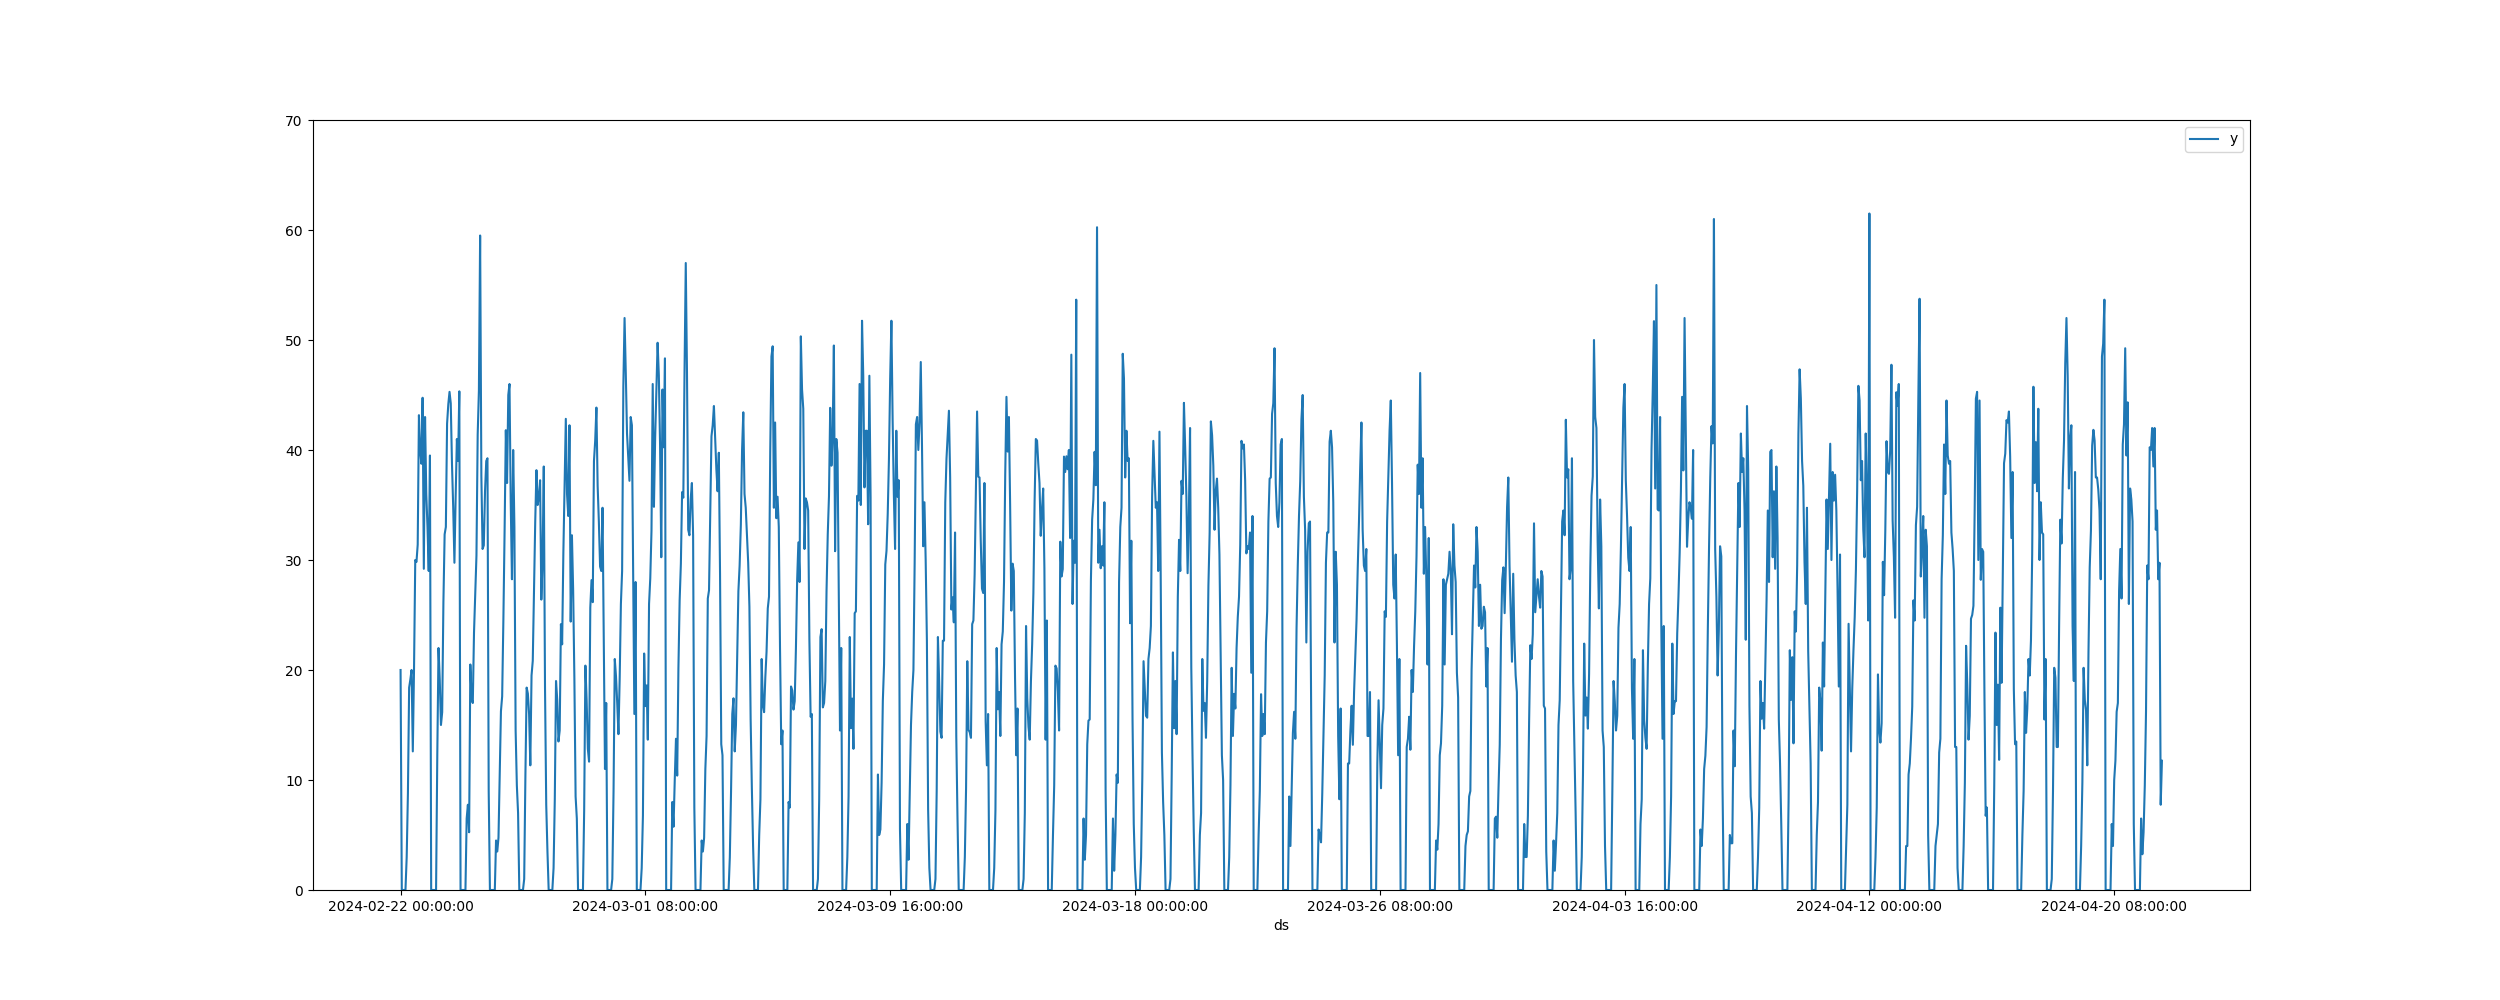
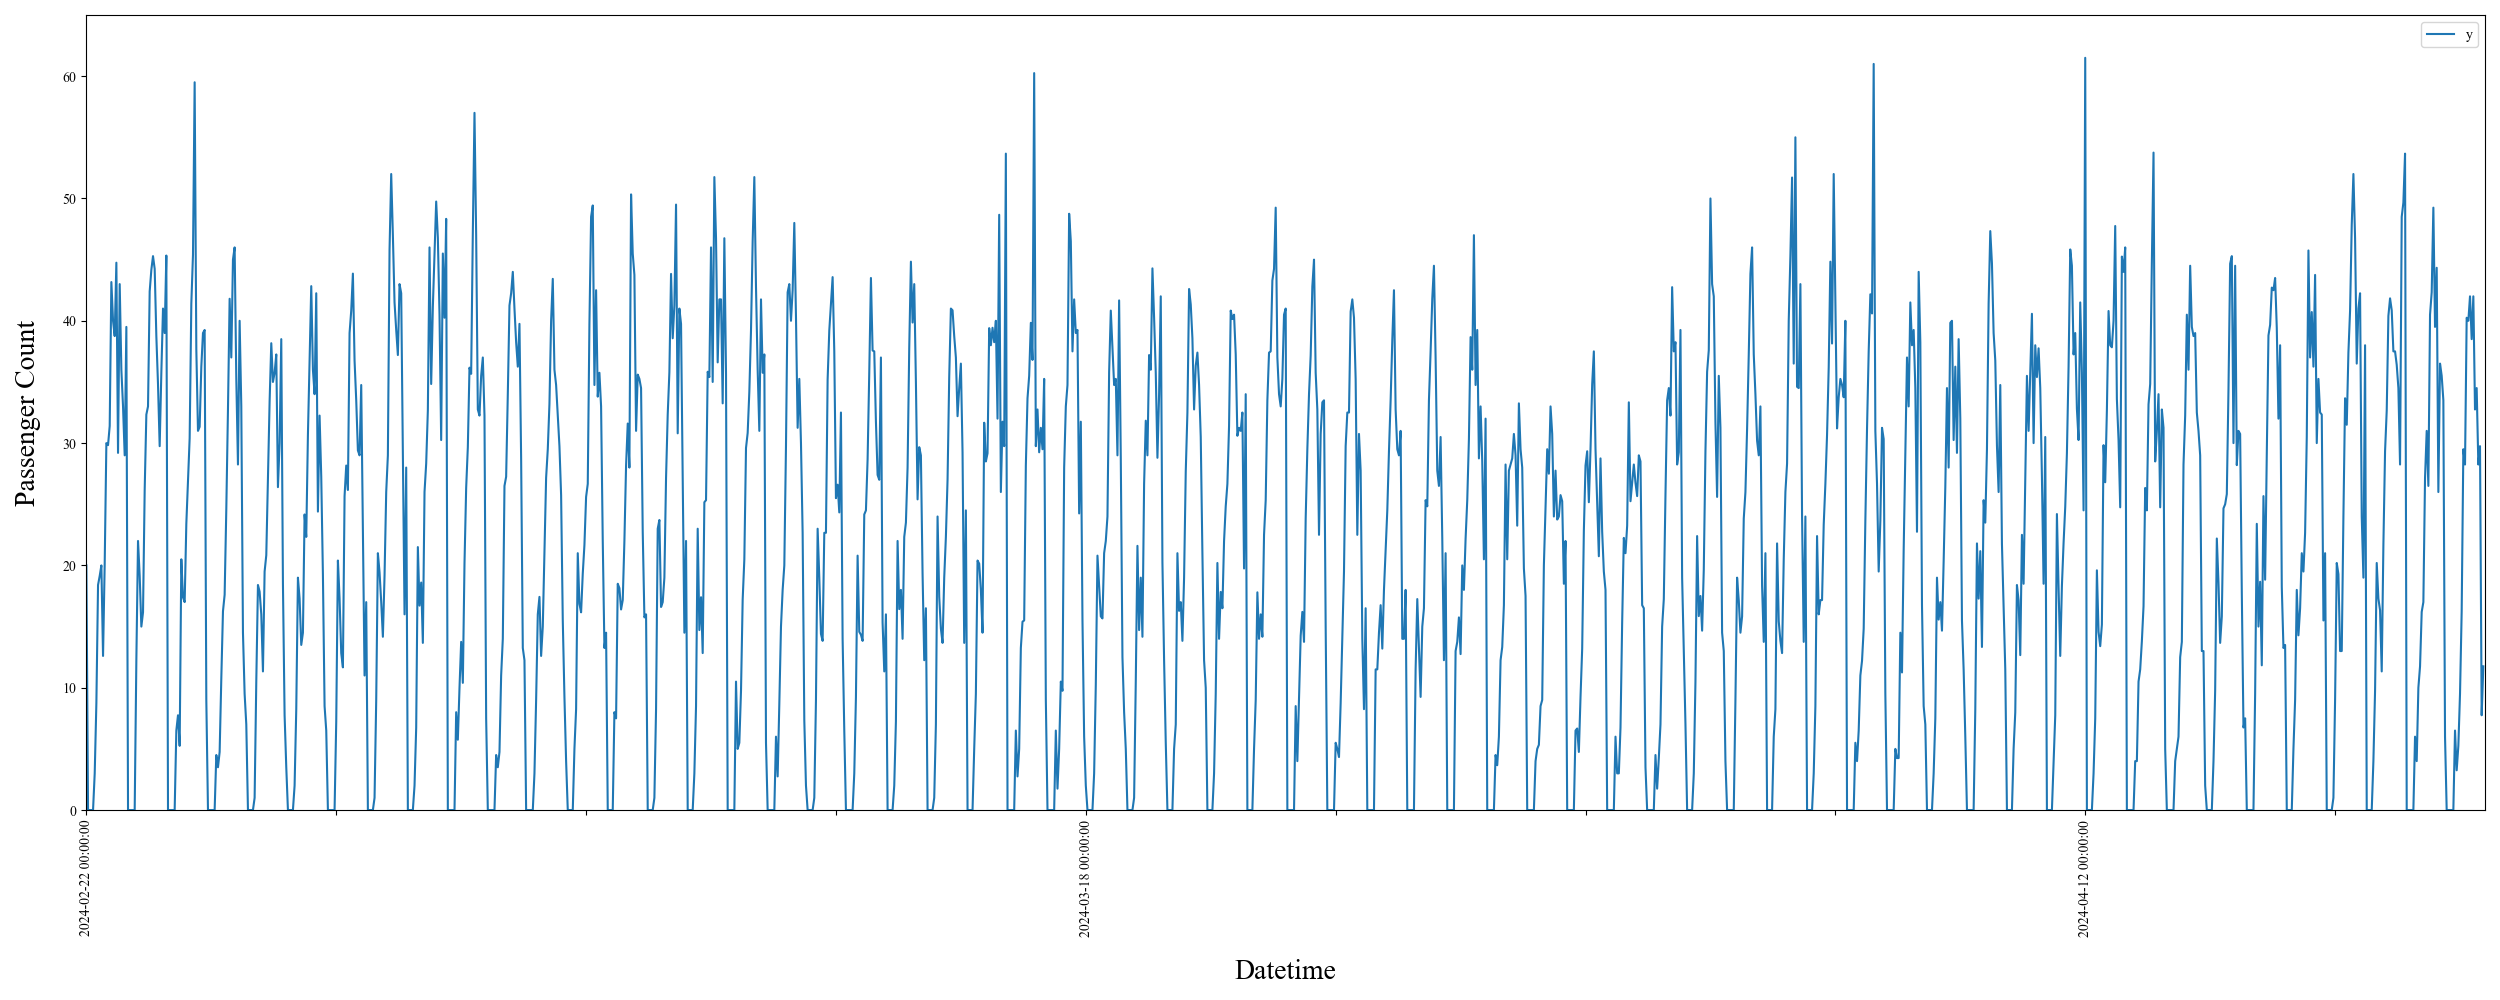
fixing layouts not done

Changed region(s): [[0.0, 0.186, 0.9984, 0.93], [0.8736, 0.124, 0.9048, 0.155], [0.4992, 0.961, 0.5304, 0.992]]

diff --git a/src/visualize_data.py b/src/visualize_data.py
@@ -3,8 +3,29 @@ import pandas as pd
 import matplotlib.pyplot as plt
 from statsmodels.tsa.seasonal import seasonal_decompose
 
-def plot_timeseries(df, figsize:tuple=(40,10), ylim:tuple=(0,75), save_path=None, save_file=None, **kwargs):
+def plot_timeseries(df, figsize:tuple=(40,10), ylim:tuple=(0,75), label_share=1, save_path=None, save_file=None, **kwargs):
+    # set font to times
+    plt.rcParams["font.family"] = "Times New Roman"
+
+    # create plot
     ts_plot = df.plot(x="ds", y="y", figsize=figsize, ylim=ylim, **kwargs)
+
+    # limit the x-axis
+    ts_plot.set_xlim(0, len(df))
+
+    # add x and y labels
+    ts_plot.set_xlabel("Datetime", fontsize=20, labelpad=16)
+    ts_plot.set_ylabel("Passenger Count", fontsize=20, labelpad=16)
+
+    # rotate x-axis labels 90 degrees
+    ts_plot.set_xticklabels(ts_plot.get_xticklabels(), rotation=90)
+
+    # ensure all x-axis labels are shown
+    ts_plot.xaxis.set_major_locator(plt.MaxNLocator(label_share))
+
+    # tighten the layout
+    plt.tight_layout()
+
 
     if save_path and save_file:
         ts_plot.get_figure().savefig(save_path / save_file)
@@ -35,21 +56,21 @@ def main():
     df = pd.read_csv(data_path / "processed_1A_norreport.csv")
 
     # plot the timeseries for Cumulative
-    plot_timeseries(df, figsize=(40,10), ylim=(0,75), save_path=plot_dir, save_file="norreport_1A_ts.png")
+    plot_timeseries(df, figsize=(40,10), ylim=(0,75), label_share = 10, save_path=plot_dir, save_file="norreport_1A_ts.png")
 
     # create another plot that is zoomed into the last two month (24 hours x 30 days * 2 months)
     df_recent = df.tail(2*24*30)
-    plot_timeseries(df_recent, figsize=(25,10), ylim=(0,70), save_path=plot_dir, save_file="norreport_1A_ts_recent.png")
+    plot_timeseries(df_recent, figsize=(25,10), ylim=(0,65), label_share = 10, save_path=plot_dir, save_file="norreport_1A_ts_recent.png")
 
     # create another that is just the last two days
     df_two_days = df.tail(2*24)
-    plot_timeseries(df_two_days, figsize=(15,10), ylim=(0,60), save_path=plot_dir, save_file="norreport_1A_ts_two_days.png", linewidth=2)
+    plot_timeseries(df_two_days, figsize=(15,10), ylim=(0,60), label_share = 200, save_path=plot_dir, save_file="norreport_1A_ts_two_days.png", linewidth=2)
     
     # plot the decomposed timeseries
-    plot_decompose(df, freq=24, save_path=plot_dir, save_file="norreport_1A_decompose.png")
+    #plot_decompose(df, freq=24, save_path=plot_dir, save_file="norreport_1A_decompose.png")
 
     # plot the decomposed timeseries for the last two days
-    plot_decompose(df_recent, freq=24, save_path=plot_dir, save_file="norreport_1A_decompose_recent.png")
+    #plot_decompose(df_recent, freq=24, save_path=plot_dir, save_file="norreport_1A_decompose_recent.png")
 
 if __name__ == "__main__":
     main()
